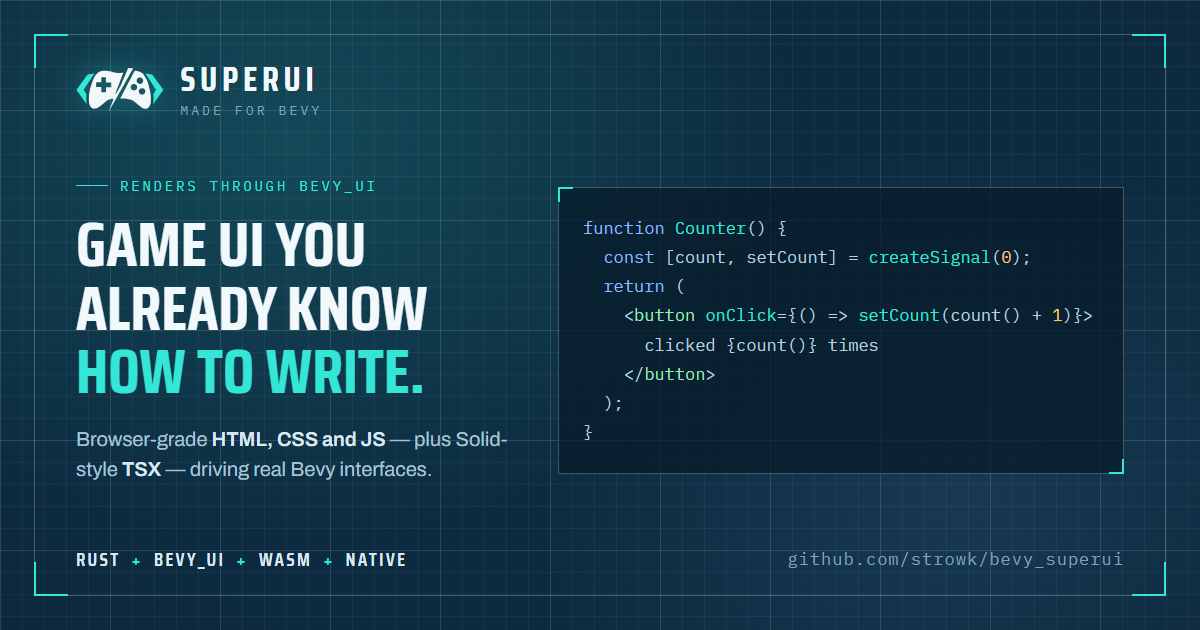
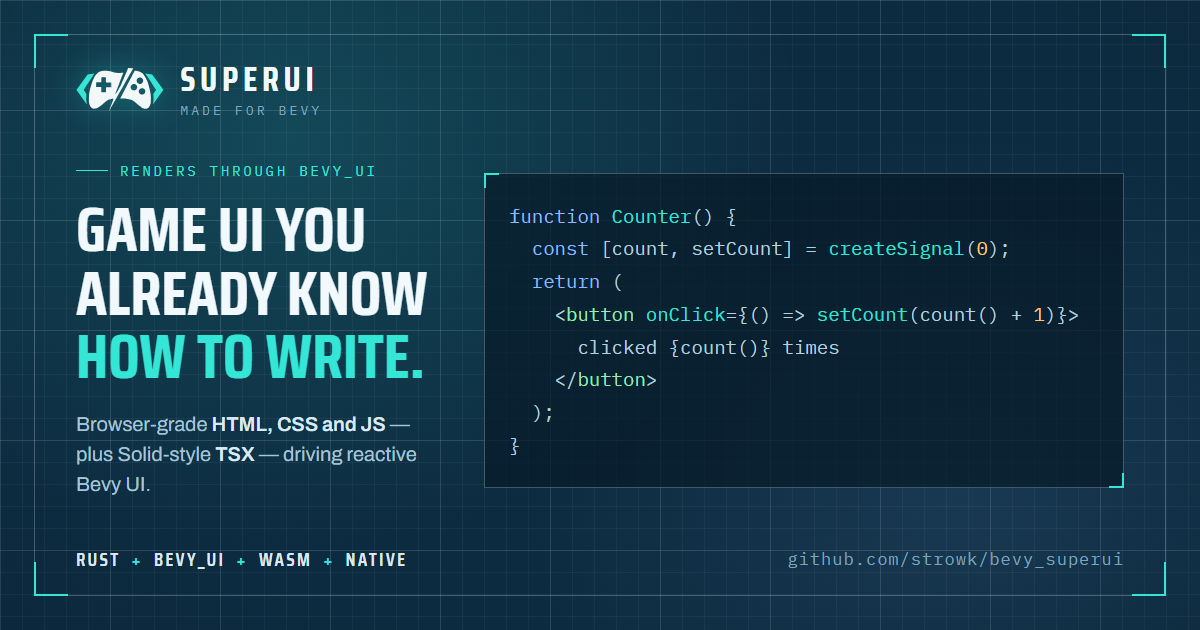
style(website): wording and code position on opengraph

Changed region(s): [[0.0617, 0.2714, 0.9558, 0.7841], [0.0617, 0.3317, 0.37, 0.6333], [0.0925, 0.2413, 0.3083, 0.3016]]

diff --git a/website/tools/og-image/card.html b/website/tools/og-image/card.html
@@ -72,7 +72,7 @@
     color: var(--su-muted); margin-top: 8px; }
 
   /* --- two-column body: pitch on the left, code panel on the right --- */
-  .hero { display: grid; grid-template-columns: 1fr 566px; gap: 48px; align-items: center; }
+  .hero { display: grid; grid-template-columns: 1fr 640px; gap: 48px; align-items: center; }
 
   .tickline { display: flex; align-items: center; gap: 12px; font-family: var(--font-mono);
     font-size: 14px; letter-spacing: 0.2em; color: var(--su-teal); }
@@ -92,7 +92,7 @@
     border-top: 2px solid var(--su-teal); border-left: 2px solid var(--su-teal); }
   .frame::after { bottom: -1px; right: -1px;
     border-bottom: 2px solid var(--su-teal); border-right: 2px solid var(--su-teal); }
-  pre.code { padding: 26px 24px; font-family: var(--font-mono); font-size: 17px; line-height: 1.72;
+  pre.code { padding: 26px 24px; font-family: var(--font-mono); font-size: 19px; line-height: 1.72;
     color: #b6cfdf; }
   pre.code .k { color: #8fb8ff; }
   pre.code .fn { color: var(--su-teal); }
@@ -138,7 +138,7 @@
         <div class="tickline"><i></i>RENDERS THROUGH BEVY_UI</div>
         <h1>Game UI you<br>already know<br><span class="accent">how to write.</span></h1>
         <p class="tagline">Browser-grade <strong>HTML, CSS and JS</strong> — plus
-          Solid-style <strong>TSX</strong> — driving real Bevy interfaces.</p>
+          Solid-style <strong>TSX</strong> — driving reactive Bevy UI.</p>
       </div>
 
       <div class="frame">
